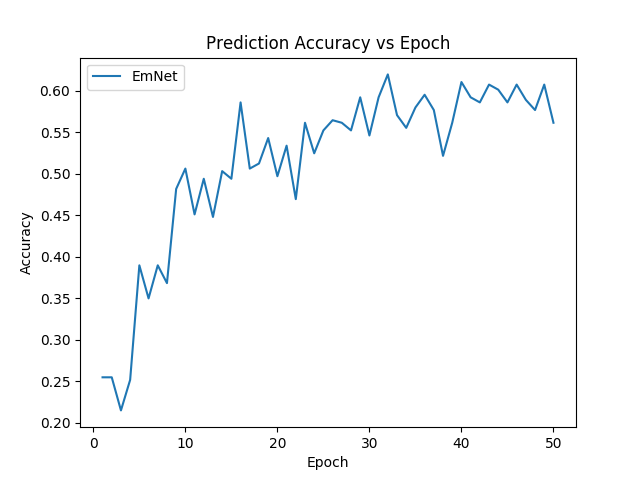
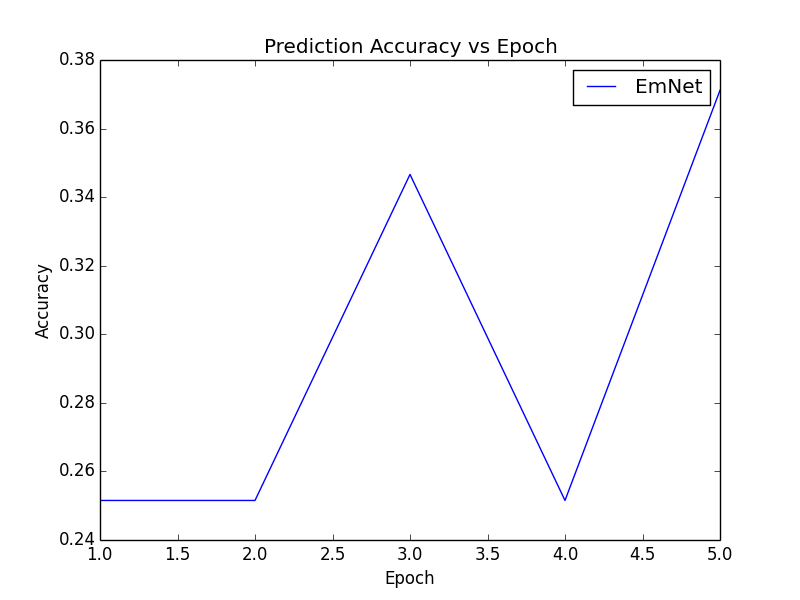
model embedded

diff --git a/code_version1/singleface.py b/code_version1/singleface.py
@@ -1,0 +1,117 @@
+import cv2
+import sys
+from em_model import EmModel
+import numpy as np
+import torch
+import time
+
+EMOTIONS = ['anger', 'contempt', 'disgust', 'fear', 'happy', 'sadness', 'surprise', 'neutral']
+
+
+# initialize the cascade
+cascade_classifier = cv2.CascadeClassifier('../classifier/haarcascade_frontalface_default.xml')  
+
+def format_image(image):
+    """
+    Function to format frame
+    """
+    if len(image.shape) > 2 and image.shape[2] == 3:
+        # determine whether the image is color
+        image = cv2.cvtColor(image, cv2.COLOR_BGR2GRAY)
+    else:
+        # Image read from buffer
+        image = cv2.imdecode(image, cv2.CV_LOAD_IMAGE_GRAYSCALE)
+
+    faces = cascade_classifier.detectMultiScale(image, scaleFactor = 1.3 ,minNeighbors = 5)
+
+    if not len(faces) > 0:
+        return None
+
+    # initialize the first face as having maximum area, then find the one with max_area
+    max_area_face = faces[0]
+    for face in faces:
+        if face[2] * face[3] > max_area_face[2] * max_area_face[3]:
+            max_area_face = face
+    face = max_area_face
+
+    # extract ROI of face
+    image = image[face[1]:(face[1] + face[2]), face[0]:(face[0] + face[3])]
+
+    try:
+        # resize the image so that it can be passed to the neural network
+        image = cv2.resize(image, (48,48))
+    except Exception:
+        print("----->Problem during resize")
+        return None
+
+    return image
+
+# Initialize object of EMR class
+network = EmModel('../face_data', 'model')
+network.load_model()
+
+cap = cv2.VideoCapture(0)
+font = cv2.FONT_HERSHEY_SIMPLEX
+feelings_faces = []
+
+# append the list with the emoji images
+for index, emotion in enumerate(EMOTIONS):
+    feelings_faces.append(cv2.imread('./emojis/' + emotion + '.png', -1))
+
+while True:
+    # Again find haar cascade to draw bounding box around face
+    ret, frame = cap.read()
+    facecasc = cv2.CascadeClassifier('../classifier/haarcascade_frontalface_default.xml')
+    gray = cv2.cvtColor(frame, cv2.COLOR_BGR2GRAY)
+    faces = facecasc.detectMultiScale(gray, 1.3, 5)
+
+    if len(faces) > 0:
+        face = format_image(frame)
+        result = network.forward(torch.tensor(face))
+        # Display the emoji
+        font = cv2.FONT_HERSHEY_SIMPLEX
+        cv2.putText(frame,EMOTIONS[result],(10,360), font, 2,(255,255,255),2,cv2.LINE_AA) 
+        face_image = feelings_faces[result]
+        # print(face_image[:,:,3])
+
+        # write the different emotions and have a bar to indicate probabilities for each class
+        # for index, emotion in enumerate(EMOTIONS):
+        #     cv2.putText(frame, emotion, (10, index * 20 + 20), cv2.FONT_HERSHEY_SIMPLEX, 0.5, (0, 255, 0), 1);
+        #     cv2.rectangle(frame, (130, index * 20 + 10), (130 + int(result[0][index] * 100), (index + 1) * 20 + 4), (255, 0, 0), -1)
+
+        # # find the emotion with maximum probability and display it
+        # maxindex = np.argmax(result[0])
+        # font = cv2.FONT_HERSHEY_SIMPLEX
+        # cv2.putText(frame,EMOTIONS[maxindex],(10,360), font, 2,(255,255,255),2,cv2.LINE_AA) 
+        # face_image = feelings_faces[maxindex]
+        # print(face_image[:,:,3])
+
+        for c in range(0, 3):
+            # the shape of face_image is (x,y,4)
+            # the fourth channel is 0 or 1
+            # in most cases it is 0, so, we assign the roi to the emoji
+            # you could also do:
+            # frame[200:320,10:130,c] = frame[200:320, 10:130, c] * (1.0 - face_image[:, :, 3] / 255.0)
+            frame[200:320, 10:130, c] = face_image[:,:,c] * (face_image[:, :, 3] / 255.0) +  frame[200:320, 10:130, c] * (1.0 - face_image[:, :, 3] / 255.0)
+
+    if not len(faces) > 0:
+        # do nothing if no face is detected
+        a = 1
+        cv2.imshow('Video', cv2.resize(frame,(960, 640),fx=2,fy=2,interpolation = cv2.INTER_CUBIC))  
+    else:
+        # draw box around face with maximum area
+        max_area_face = faces[0]
+        for face in faces:
+            if face[2] * face[3] > max_area_face[2] * max_area_face[3]:
+                max_area_face = face
+        face = max_area_face
+        (x,y,w,h) = max_area_face
+        frame = cv2.rectangle(frame,(x,y-50),(x+w,y+h+10),(255,0,0),2)
+        cv2.imshow('Video', cv2.resize(frame,(960, 640),fx=2,fy=2,interpolation = cv2.INTER_CUBIC))       
+        time.sleep(0.2)
+
+    if cv2.waitKey(1) & 0xFF == ord('q'):
+        break
+
+cap.release()
+cv2.destroyAllWindows()

diff --git a/code_version1/em_model.py b/code_version1/em_model.py
@@ -12,6 +12,7 @@ import os
 import time
 import shutil
 import numpy as np
+import sys
 
 class EmNet(nn.Module):
     # Define the network structure
@@ -115,25 +116,47 @@ class EmModel:
     def predict(self, inputs):
         outputs = self.net(inputs)
         prob, label = torch.max(outputs, 1)
-        '''
-        print('prob', prob)
-        print('label', label)
-        '''
-        '''
-        # If probability is lower than 0.5
-        # Predict it as neutral
-        label[prob < 0.5] = 7
-        '''
         return label
 
     # img is a 2d tensor
     # Return the name of predicted class
     def forward(self, img):
         inputs = torch.unsqueeze(img.type(torch.FloatTensor), 0)
-        label = predict(inputs)
-        result = self.classes[self.classes[label[0]]]
+        inputs = torch.unsqueeze(inputs, 0)
+        label = self.predict(inputs)
+        result = self.classes[int(label[0])]
         print('Predict result', result)
-        return result
+        return int(label[0])
+
+
+    def load_model(self):
+        model_file = os.path.join(self.modelDir, 'saved_model.tar')
+        if os.path.isfile(model_file):
+            print('Found saved model:', model_file)
+            copy = torch.load(model_file)
+            self.end = copy['epoch']
+            self.best_acc = copy['best_acc']
+            self.net.load_state_dict(copy['model'])
+            self.optimizer.load_state_dict(copy['optimizer'])
+            self.loss_list = copy['loss_list']
+            self.acc_list = copy['acc_list']
+            plt.plot(list(range(1, len(self.loss_list)+1)), self.loss_list, label='EmNet')
+            plt.legend()
+            plt.title('Training Error vs Epoch')
+            plt.xlabel('Epoch')
+            plt.ylabel('Training Error')
+            plt.savefig('error.png')
+            plt.clf()
+            
+            plt.plot(list(range(1, len(self.acc_list)+1)), self.acc_list, label='EmNet')
+            plt.legend()
+            plt.title('Prediction Accuracy vs Epoch')
+            plt.xlabel('Epoch')
+            plt.ylabel('Accuracy')
+            plt.savefig('accuracy.png')
+            plt.clf()
+        else:
+            print('Model not found')
 
     def train(self):
         def save_model(state, better, f=self.check_point_file):
@@ -207,5 +230,11 @@ class EmModel:
 
         print('Training ends:', time.ctime(time.time()))
 
-model = EmModel('../face_data', 'model')
-model.train()
+if __name__ == '__main__':
+    print("\n------------Emotion Detection Program------------\n")
+    if sys.argv[1] == 'train':
+        model = EmModel('../face_data', 'model')
+        model.train()
+    if sys.argv[1] == 'singleface':
+        import singleface
+        print('In singleface')
